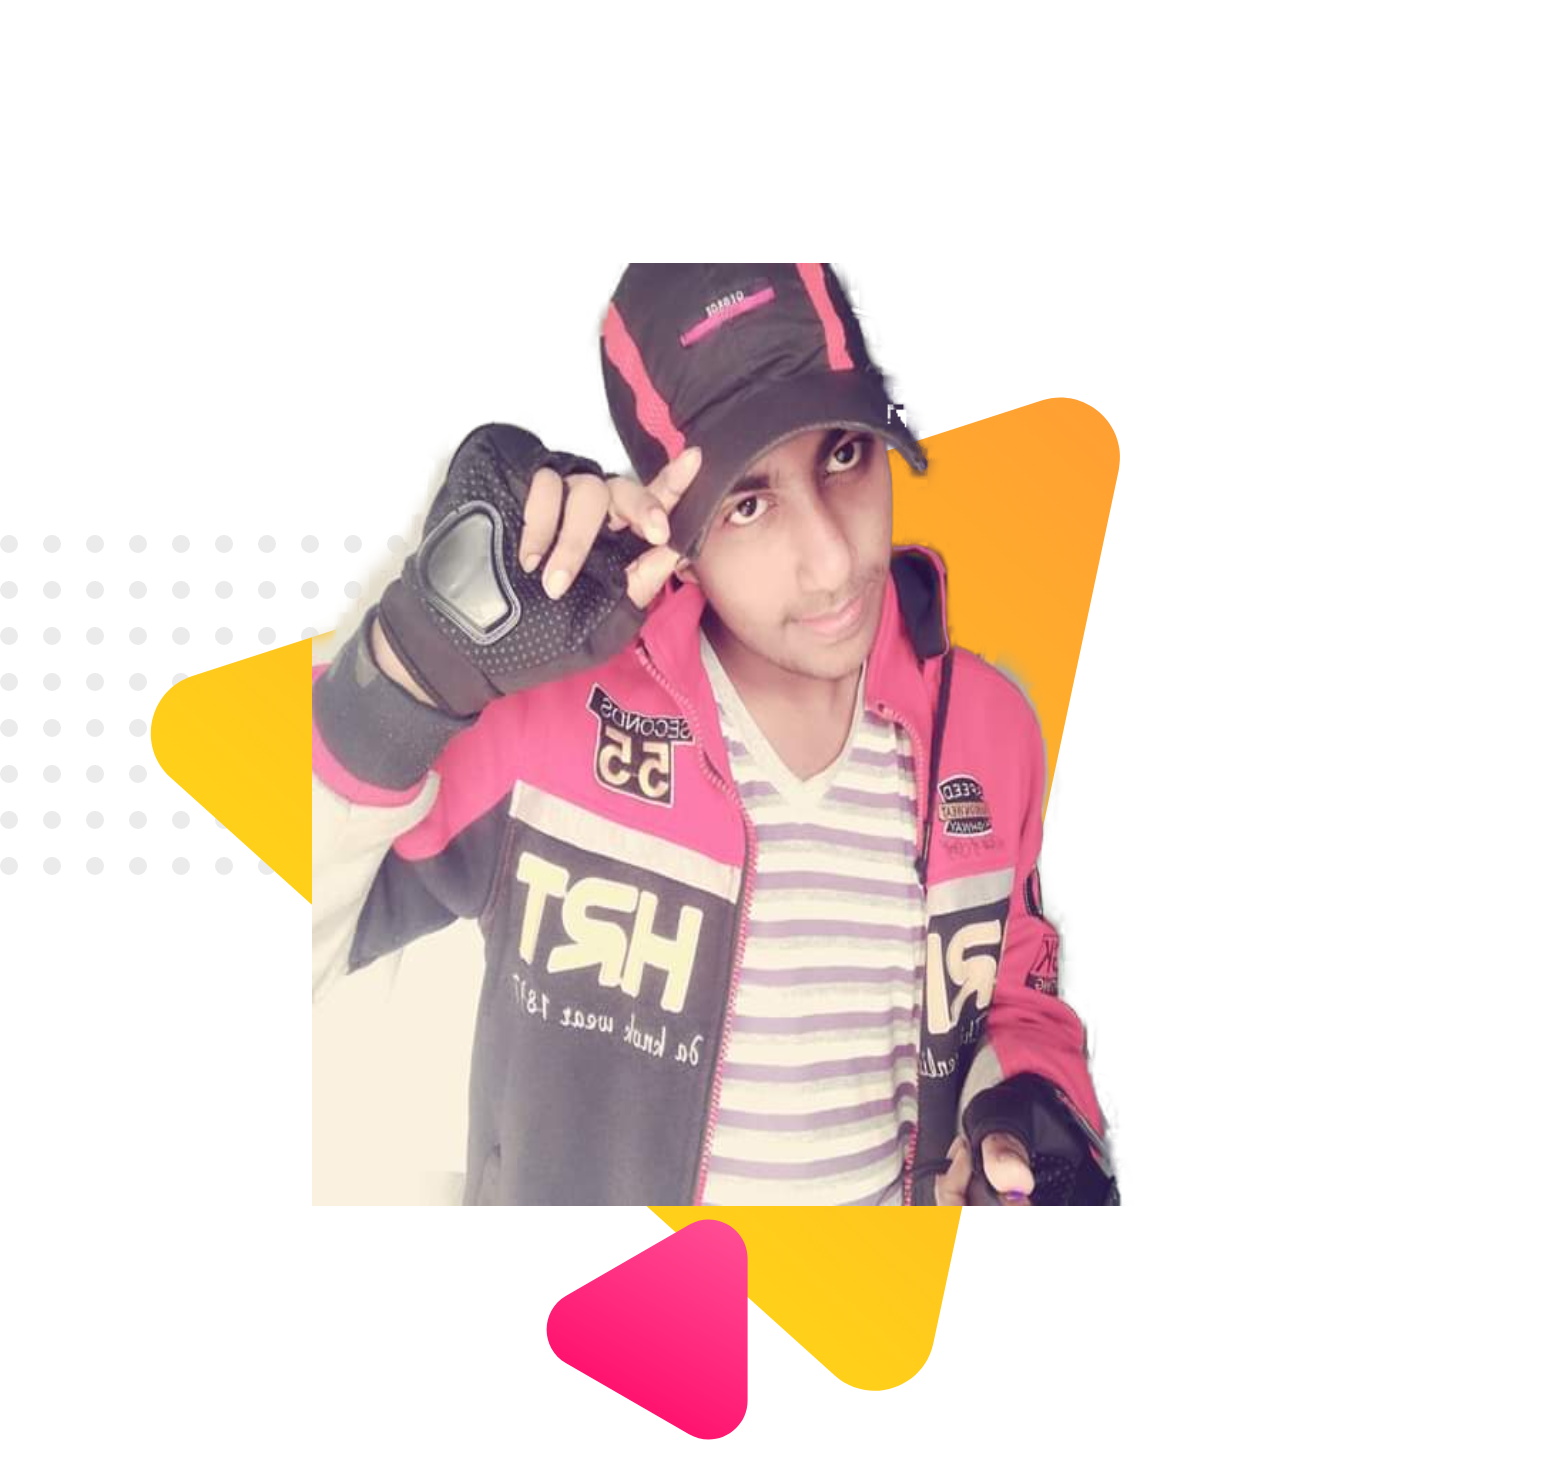
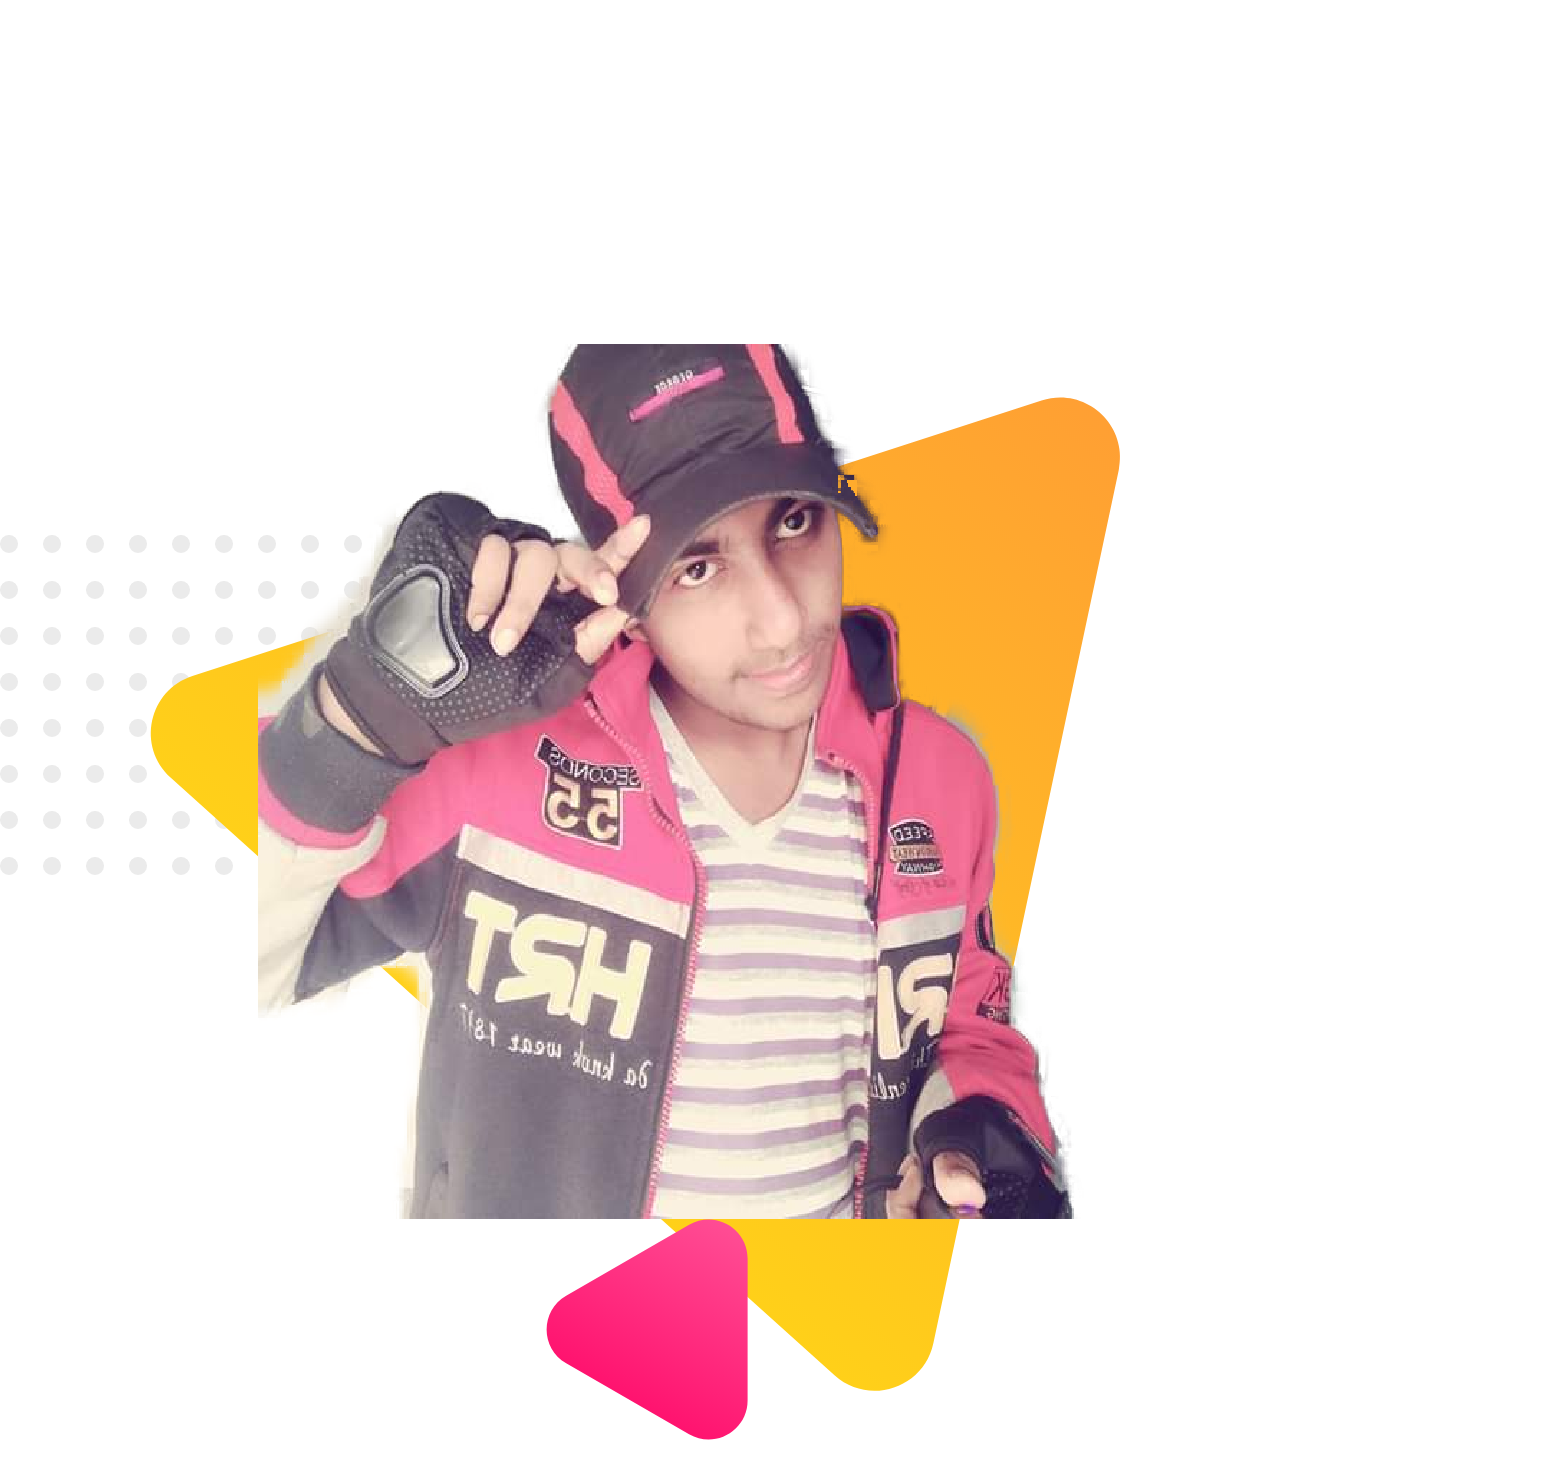
Update 1.03

Changed region(s): [[0.1548, 0.1532, 0.7432, 0.8271]]

diff --git a/index.html b/index.html
@@ -11,12 +11,13 @@
 </head>
 <!------------------body_Started------------------------->
 <body>
-<section>
+<section class="top-banner">
 <div class="myself">
   <h1>Welcome To</h1>
   <h1><span class="name-highlitght">Ahsan Habib Sunny's</span> World</h1>
   <h3>web Developer</h3>
   <p>I am Ahsan Habib Sunny Web developer From Bangladesh. My clients see consistent and often dramatic improvement using my recommendations and techniques and are thrilled with the results. I am a Web developer with more than 5 day experience.i will do HTML,CSS and JS (Upcoming) work like making website, form landing ,Ssl ,migrate or backup.i will do responcive website and listing directory website.</p>
+  <a class="hair-me" href="https://www.linkedin.com/in/ahsanhabibsunny/" target="_blank">HIRE ME :)</a>
 </div>
 <div class="myself"><img src="images/img-1.png" alt=""></div>
 </section>

diff --git a/style.css b/style.css
@@ -1,6 +1,6 @@
-body
-h1{
+body{
     font-family: 'Poppins', sans-serif;
+    margin: 0;
 }
 h1{
     font-size: 50px;
@@ -18,3 +18,18 @@ h1{
 .myself img{
     width: 100%;
 }
+.top-banner{
+    background-image: url("images/top-banner.png");
+    background-repeat: no-repeat;
+}
+ section{
+     height: 500px;
+ }
+ .hair-me{
+     text-decoration: none;
+     background-image: linear-gradient(lightsalmon,orange);
+     padding: 10px 20px;
+     border-radius: 5px;
+     color: white;
+     font-weight: 800;
+ }
